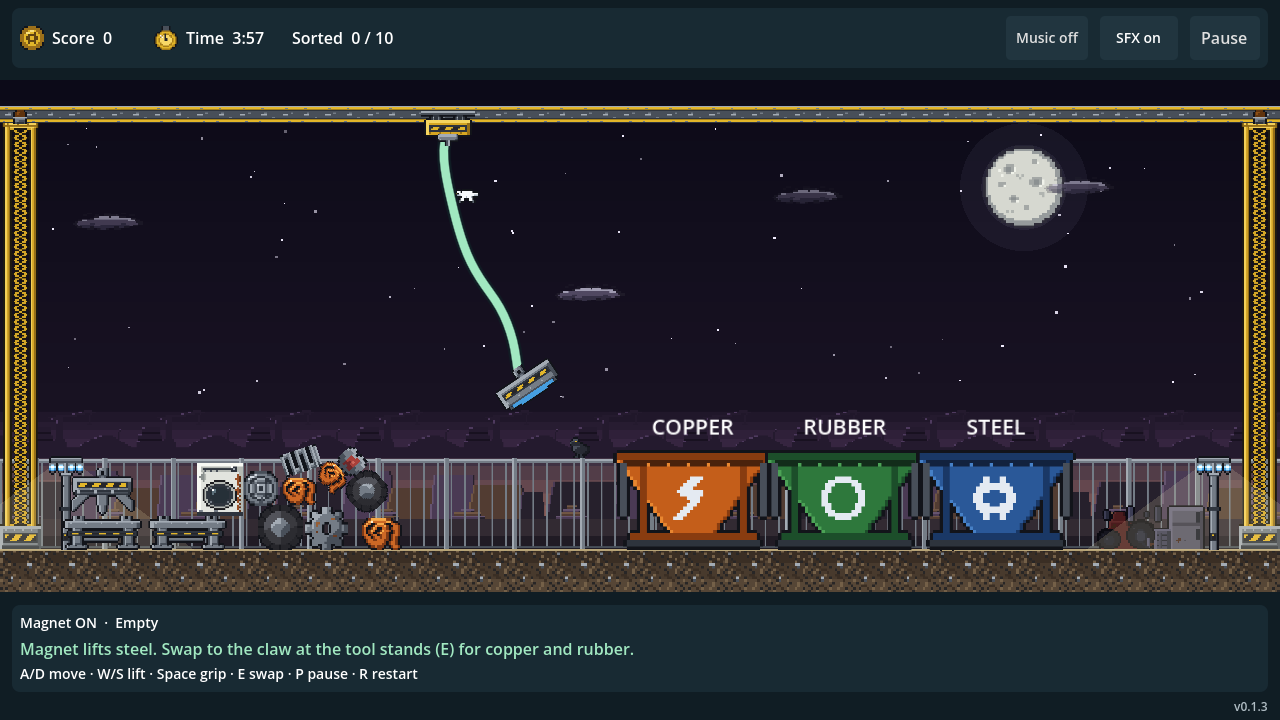
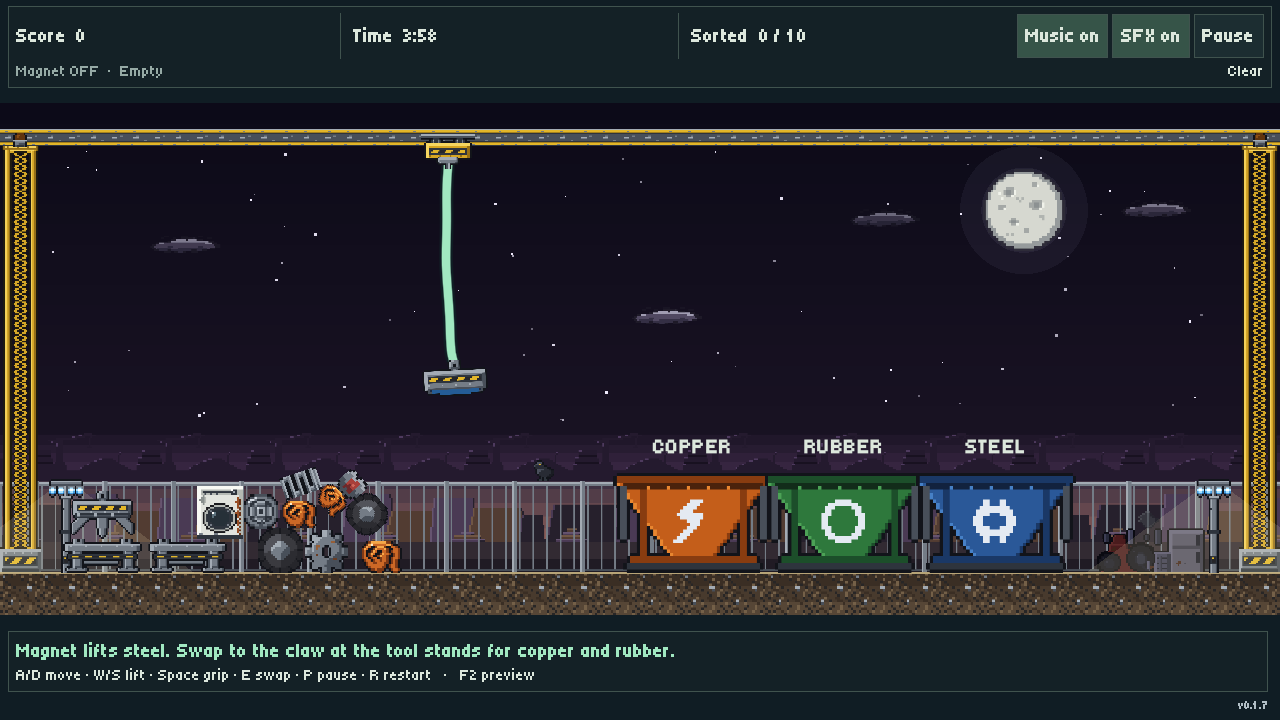
Refresh marketing captures and public README

diff --git a/README.md b/README.md
@@ -2,49 +2,57 @@
 
 A four-minute scrapyard shift. Drive a swinging crane, swap between a magnet and a claw, and sort ten pieces of scrap before time runs out.
 
-**[Play in your browser](https://pocket-salvage.web.app/)** · **[Download for Windows or Linux](https://github.com/RaresKeY/pocket-salvage/releases/latest)**
+**[Play in your browser](https://pocket-salvage.web.app/)** · **[Download for Windows or Linux](https://github.com/RaresKeY/pocket-salvage/releases/latest)** · [GitHub Pages mirror](https://rareskey.github.io/pocket-salvage/)
 
-[Alternate play link: GitHub Pages](https://rareskey.github.io/pocket-salvage/). Firebase is a manually deployed release snapshot; GitHub Pages updates with each tagged release.
+![Pocket Salvage gameplay with the current pixel-font HUD, swinging crane and three sorting bins.](marketing/pocket-salvage.png)
 
-![Pocket Salvage: a crane above a moonlit scrapyard, with copper, rubber and steel sorting bins.](marketing/pocket-salvage.png)
+## Play
 
-## Current release
+The **magnet lifts steel**; the **claw grabs copper and rubber**. Park your head at an empty tool stand on the left, then pick up the other. Drop scrap into its matching bin.
 
-Source on `main` adds a 12-slot level grid: Clear, Breezy and Violent are unlocked; the remaining nine are placeholders. Replay keeps your chosen level. This is not yet in the published Web builds.
+Correct sorts earn **100 points**. A wrong bin throws the item back and costs **25 points**. Clear the yard early for **5 points per second remaining**. Weather can push the crane, make scrap slippery and briefly cut magnet power; harder weather multiplies a positive final score.
 
-The [latest release](https://github.com/RaresKeY/pocket-salvage/releases/latest) adds per-round weather: clear, fog, wind, rain or storm. Wind pushes the crane and airborne scrap, rain makes scrap slippery, and lightning briefly cuts magnet power. Harder weather multiplies a positive final score.
-
-It also retains the v0.1.5 improvements: better Firefox audio continuity during frame stalls, reduced cable and HUD work, and a 60 FPS target on Web. Keyboard, standard controllers and mobile touch controls are supported. Music and SFX have separate controls; click **Start** to enable browser audio. This release also adds square pixel-font menus, pause-menu volume sliders, curved wind trails and sparse fading dust.
-
-## How to play
-
-The **magnet lifts steel**; the **claw grabs copper and rubber**. Park your current head at an empty tool stand on the left, then pick up the other. Drop scrap into its matching bin.
-
-Correct sorts earn **100 points**. A wrong bin throws the item back and costs **25 points**. Clear the yard early for **5 points per second remaining**.
-
-| Action | Keyboard | Controller (standard layout) |
+| Action | Keyboard | Controller |
 |---|---|---|
-| Start / resume / replay | Enter or the on-screen button | A / south face button |
-| Move / raise / lower | WASD or arrow keys | Left stick or D-pad |
+| Start / resume / replay | Enter or on-screen button | A / south face button |
+| Move / raise / lower | WASD or arrows | Left stick or D-pad |
 | Grab / release | Space | A / south face button |
 | Park / pick up a head | E | X / west face button |
 | Pause / resume | P or Escape | Start or B / east face button |
 | Restart | R | Y / north face button |
 | Toggle music / SFX | M for music; HUD buttons | Left / right bumper |
 
-On mobile Web browsers, a **bottom-right touch controller** appears automatically: hold arrows to move and lift; tap **Grip** or **Swap**. You can use movement and action buttons together. Turn your phone sideways for a wider yard. Start, pause, resume and audio controls remain on-screen.
+**Audio:** click Start to enable browser audio. Music and SFX have separate mute buttons and pause-menu volume sliders.
 
-For desktop downloads, extract the whole ZIP and keep the executable beside its PCK file. Run `pocket-salvage.exe` on Windows or `pocket-salvage.x86_64` on Linux. The downloadable Web ZIP needs an HTTP server; use either hosted play link for immediate browser play.
+**Mobile:** Web builds automatically show bottom-right touch controls. Hold the arrows to move and lift; tap Grip or Swap. Landscape gives the yard more room.
+
+**Desktop:** extract the whole ZIP and keep the executable beside its PCK file. Run `pocket-salvage.exe` on Windows or `pocket-salvage.x86_64` on Linux. The downloadable Web ZIP needs an HTTP server; the hosted links are ready to play.
+
+## Levels on main
+
+The source version adds a classic 12-slot grid, with three levels unlocked:
+
+| Level | Weather |
+|---|---|
+| 01 · Clear | No weather effects |
+| 02 · Breezy | Light wind, rain, fog and occasional lightning |
+| 03 · Violent | Strong gusts, heavy rain and frequent lightning |
+
+The other nine slots are locked placeholders. Replay keeps your selection; **Levels** on pause and results returns to the grid. Select a tile with mouse/touch, or choose with controller directions and press A to start.
+
+![The current source level grid: Clear, Breezy and Violent unlocked, with nine locked slots.](marketing/levels.png)
+
+**Published version: [v0.1.7](https://github.com/RaresKeY/pocket-salvage/releases/tag/v0.1.7).** Both hosted sites currently run v0.1.7, which rolls weather per round and does not yet include the level grid. The screenshots above show current source. Firebase is updated manually; GitHub Pages updates with tagged releases.
 
 ## Development
 
-Made with **Godot 4.7**. Import `project.godot`, run the project, then choose **Play prototype** from the yard preview. To open the playable scene directly, use `labs/salvage/lab.tscn`.
+Made with **Godot 4.7**. Import `project.godot`, run the project, then choose **Play prototype** from the yard preview. Open `labs/salvage/lab.tscn` to run the game directly.
 
-On Linux with the shared `godot-podman` runner configured, `./play.sh` launches the game with desktop audio and `./tests/check` runs the suite. These scripts require that runner; `play.sh` also requires a PulseAudio-compatible desktop audio socket. Setup and alternative test commands are in the [contributor guide](docs/collaboration.md) and [test guide](tests/README.md).
+On Linux, `./play.sh` launches with desktop audio and `./tests/check` runs the suite. Both require the shared `godot-podman` runner; the launcher also needs a PulseAudio-compatible desktop audio socket. See the setup and alternative commands below.
 
-- [Contributor guide](docs/collaboration.md) — setup, direct-main workflow, and migration from `random-game`.
-- [Specs](specs/_readme.md) and [design](design/_readme.md) — current behavior, decisions, and human/AI attribution.
-- [Builds and releases](specs/builds.md) — local exports, checksums, tag automation, Firebase hosting, and platform validation.
-- [Performance review](docs/performance-review.md) — Firefox/Linux measurements, audio checks, and remaining limitations.
+- [Contributor guide](docs/collaboration.md) and [test guide](tests/README.md).
+- [Specs](specs/_readme.md) and [design](design/_readme.md) — behavior, decisions and human/AI attribution.
+- [Builds and releases](specs/builds.md) — exports, checksums, tag automation and hosting.
+- [Performance review](docs/performance-review.md) — Firefox/Linux measurements and limitations.
 
-Main pushes run tests. Matching version tags test and build Windows, Linux and Web releases, then update GitHub Pages. Linux and Firefox/Linux have runtime validation. Windows exports are built and hash-verified but still need a Windows-machine playtest.
+Main pushes run tests. Matching version tags test and build Windows, Linux and Web releases, then update GitHub Pages. Linux and Firefox/Linux have runtime validation. Windows exports are built and hash-verified; a Windows-machine playtest is still pending.

diff --git a/specs/repository.md b/specs/repository.md
@@ -1,6 +1,6 @@
 # Repository Structure
 
-Reviewed: 2026-09-25. Implementation revision: `39312c3` (v0.1.7).
+Reviewed: 2026-09-25. Runtime revision: `3557892`; README/marketing refresh based on that revision.
 
 ## Current contract
 
@@ -32,10 +32,10 @@ Check Markdown links, the tracked/ignored boundary, Git attributes, and `git dif
 
 ## Public entry point
 
-The root README leads with browser play and desktop downloads, a selected live-game screenshot, controls, and short development links. Detailed contributor and build rules remain in their owning docs/specs. `marketing/.gdignore` prevents the README capture from becoming a game resource.
+The root README leads with browser play and desktop downloads, current-source gameplay and level-grid screenshots, controls, and short development links. Detailed contributor and build rules remain in their owning docs/specs. `marketing/.gdignore` prevents the README capture from becoming a game resource.
 
 The main workstation checkout is now named `pocket-salvage`. Git links for its nine existing sibling worktrees were repaired after the move; their paths and branches remain intact. Launchers resolve the project from their own location, so they follow the rename without hard-coded path changes. Local instruction files moved with the checkout and remain ignored.
 
 The public About website is Firebase Hosting (`https://pocket-salvage.web.app/`), a manually deployed v0.1.7 snapshot. README retains GitHub Pages as the destination updated by tagged releases and labels that difference. Firebase configuration is tracked; credentials, deployment caches/logs and downloaded release payloads are not.
 
-The README summarizes the current release’s weather and retained audio/performance changes, executable names, browser audio activation, Web ZIP serving requirements and Linux launcher prerequisites. It links the test guide and measured performance review; hosted version metadata and latest-release identity were checked during the refresh.
+The README describes controls, scoring, audio sliders, mobile support and source-only levels without mixing them with the published release. Both live `build.json` endpoints and GitHub latest-release metadata were verified as v0.1.7 (`39312c3`) during this refresh. Marketing provenance is recorded in `marketing/README.md`; captures show source `3557892`. Markdown destinations and diff whitespace are checked; this documentation/media-only change does not require an engine regression run.

diff --git a/design/releases.md b/design/releases.md
@@ -14,6 +14,8 @@ RaresKeY’s [next request](../prompts/source/firebase-hosting.md) authorizes a 
 
 RaresKeY’s latest [deployment directive](../prompts/source/firebase-hosting.md) requests updating both hosted sites with the new wind/UI changes.
 
+RaresKeY’s [marketing refresh request](../prompts/source/marketing-refresh.md) asks to remake the marketing PNG and update the stale README.
+
 ## AI-inferred design
 
 Use `pocket-salvage` as the repository slug and `v0.1.3` as the first published automated patch release (`v0.1.2` exposed a draft-lookup defect and remains an unchanged historical tag). Test main pushes; stable `vMAJOR.MINOR.PATCH` tags must match the project version and belong to main. Tagged releases test and export Windows/Linux/Web twice, using the existing reproducible packager. Keep macOS outside automated releases until target-machine validation is available.
@@ -33,3 +35,5 @@ README refresh: summarize the published v0.1.5 audio/performance behavior, disti
 Use v0.1.6 for the requested release, including Dale’s weather implementation that arrived before publication. Run the existing tag workflow, then deploy its verified Web package to Firebase manually.
 
 Use v0.1.7 for curved wind, sparse dust, square pixel UI, bundled Tiny5 and pause volume controls. Run tagged delivery, then deploy the same verified Web payload to Firebase. Local Developer options remain excluded from exported UI.
+
+Marketing refresh: use fresh, unmodified 1280×720 native gameplay and level-grid captures from `3557892`, with the existing game art and UI. Keep gameplay as the hero, place the grid beside its explanation, and explicitly distinguish source-only levels from hosted v0.1.7. This request changes documentation and promotional captures, not releases or deployments.

diff --git a/marketing/README.md b/marketing/README.md
@@ -1,5 +1,10 @@
 # Marketing
 
-Keep intentional promotional deliverables here, with their purpose, intended channel, and source/provenance links. Do not treat a file in this directory as authorization to publish it.
+Intentional public README captures, excluded from Godot imports/exports by `.gdignore`.
 
-Unfinished promotional work belongs in [artifacts/](../artifacts/README.md). Retain authored or non-reproducible sources; reproducible release outputs remain ephemeral. `pocket-salvage.png` is the selected public README screenshot: an unmodified Firefox capture of the live GitHub Pages v0.1.3 game on 2026-09-25, source `ee17e9ec4f64c103d311a1bda7188c271686974b`. It shows an actual running round; no scene elements were composited. Publication is covered by RaresKeY’s [public README request](../prompts/source/public-release.md). `.gdignore` keeps this documentation image out of game imports and exports.
+- `pocket-salvage.png`: current gameplay hero showing the pixel-font HUD and Clear level.
+- `levels.png`: ready screen showing three unlocked levels and nine locked placeholders.
+
+Both are unmodified 1280×720 native Godot 4.7 captures of source `3557892`, made on 2026-09-25 with the shared managed runner, headless Gamescope, NVIDIA RTX 2080 Ti hardware rendering and Dummy audio. Gameplay advances through crane movement before capture; no scene elements were composited or generated. Capture script/logs remain locally in `.local/marketing-refresh/`.
+
+RaresKeY requested this [refresh](../prompts/source/marketing-refresh.md). The root README identifies these as current-source captures: hosted v0.1.7 does not include level selection. Promotional files do not independently authorize a game release or deployment.

diff --git a/prompts/source/marketing-refresh.md b/prompts/source/marketing-refresh.md
@@ -1,0 +1,3 @@
+# Marketing refresh — RaresKeY, 2026-09-25
+
+> remake mareketing png and also update stale readme
